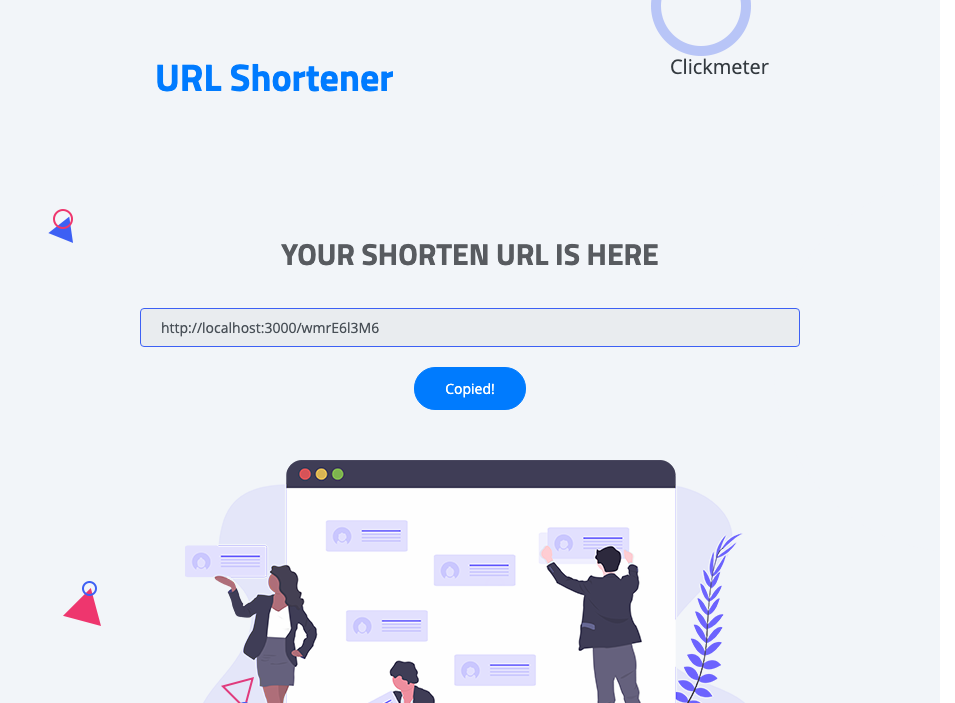
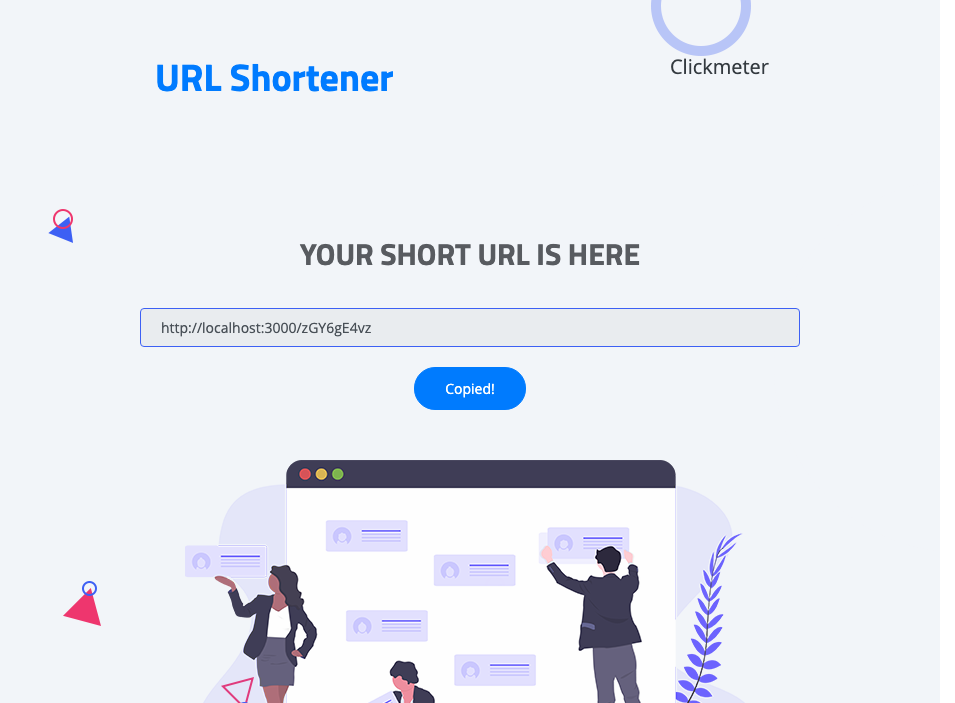
Text edit

Changed region(s): [[0.3037, 0.3286, 0.6984, 0.3883], [0.3037, 0.4481, 0.3948, 0.478]]

diff --git a/routes/index.js b/routes/index.js
@@ -14,7 +14,7 @@ router.get("/", (req, res, next) => {
   res.render("index", { title: "Simple URL Shortener" });
 });
 
-/* POST create new shorten url */
+/* POST create new short url */
 router.post("/url", async (req, res, next) => {
   try {
     const { url } = req.body;
@@ -30,16 +30,16 @@ router.post("/url", async (req, res, next) => {
 
       await URL.create(urlData);
 
-      const shorten = BASE_URL + key;
+      const short = BASE_URL + key;
 
       res.render("info", {
-        url: shorten,
-        title: "Your shorten URL is here",
+        url: short,
+        title: "Your short URL is here",
       });
     } else {
       res.render("index", {
         title: "Your URL is not valid",
-        description: "Please enter a valid URL for shorten",
+        description: "Please enter a valid URL to shorten",
       });
     }
   } catch (error) {
